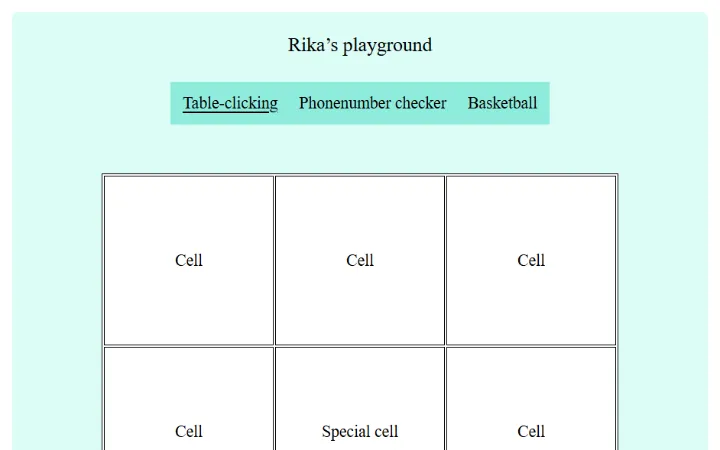
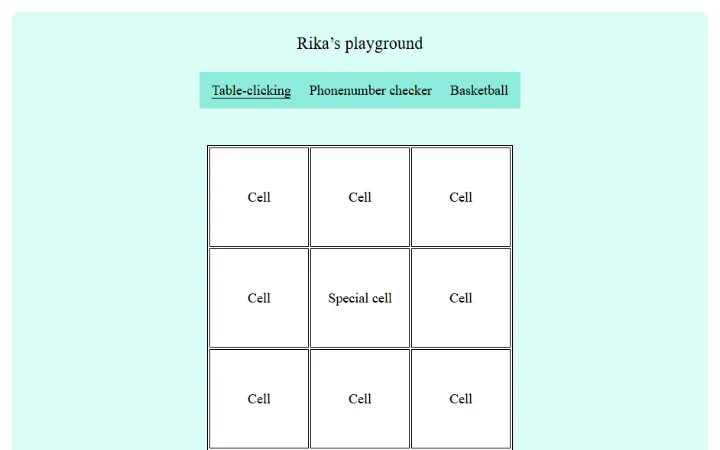
Scale down the HW14 playground
The table cells were up to 220px, too big next to the rest of the
page: they are 128px now (smaller on narrow screens), with a smaller
title, tab bar and scores, so the box fits the screen better.

diff --git a/src/homework/hw14-dom-events/DomEvents.tsx b/src/homework/hw14-dom-events/DomEvents.tsx
@@ -17,10 +17,10 @@ export default function DomEvents() {
     // The original page: mint, in Times New Roman, with "Rika's playground" over a turquoise tab
     // bar. It stays light in the dark theme too, like the other original pages.
     <div className="flex flex-col items-center overflow-hidden rounded-lg bg-[#dcfcf6] px-4 pt-6 pb-10 font-times text-black">
-      <p className="mb-7 text-[1.6rem]">Rika’s playground</p>
+      <p className="mb-5 text-[1.4rem]">Rika’s playground</p>
       <div
         role="tablist"
-        className="mb-12 flex flex-wrap justify-center gap-x-7 gap-y-1 bg-[#8eebdc] px-4 py-3 text-[1.35rem] sm:mb-16"
+        className="mb-10 flex flex-wrap justify-center gap-x-6 gap-y-1 bg-[#8eebdc] px-4 py-2.5 text-lg sm:mb-12"
       >
         {tasks.map((task, index) => (
           <button

diff --git a/src/homework/hw14-dom-events/ColorTable.tsx b/src/homework/hw14-dom-events/ColorTable.tsx
@@ -63,7 +63,7 @@ export function ColorTable() {
                     data-color={color}
                     onClick={() => handleClick(row, column)}
                     className={cx(
-                      'size-24 cursor-pointer text-[1.35rem] sm:size-40 md:size-[13.75rem]',
+                      'size-20 cursor-pointer text-lg sm:size-28 md:size-32',
                       colorClass[color],
                     )}
                   >

diff --git a/src/homework/hw14-dom-events/Basketball.tsx b/src/homework/hw14-dom-events/Basketball.tsx
@@ -98,7 +98,7 @@ export function Basketball() {
           ))}
         </div>
 
-        <div className="mt-3 flex justify-between text-[1.35rem]">
+        <div className="mt-3 flex justify-between text-lg">
           <p>
             Team A:<span data-testid="score-A">{scores.A}</span>
           </p>
